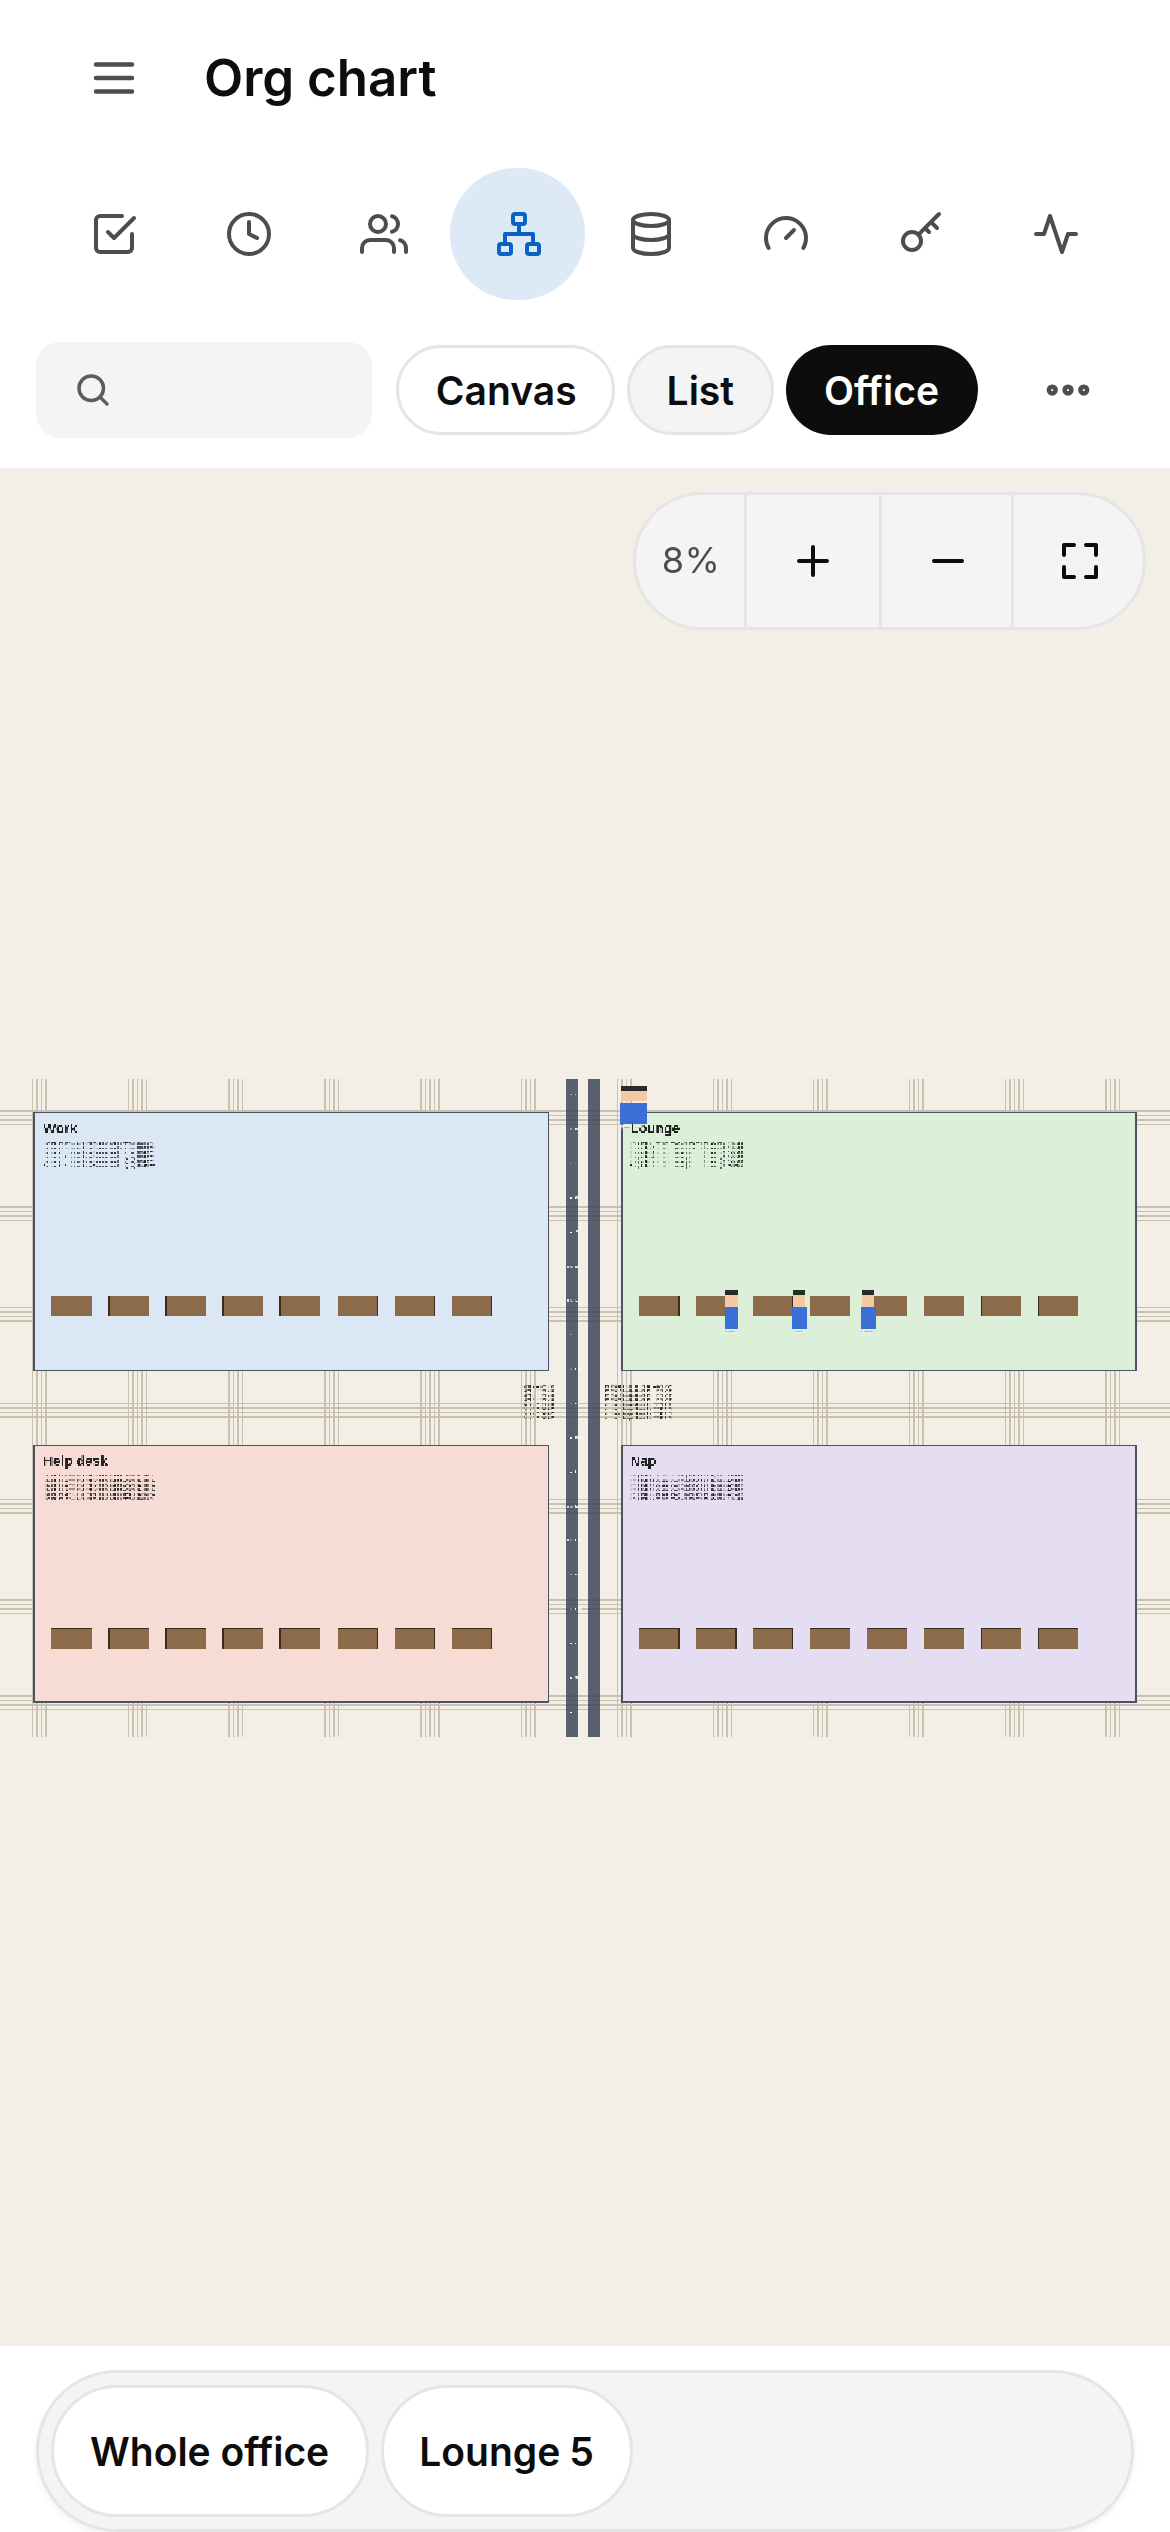
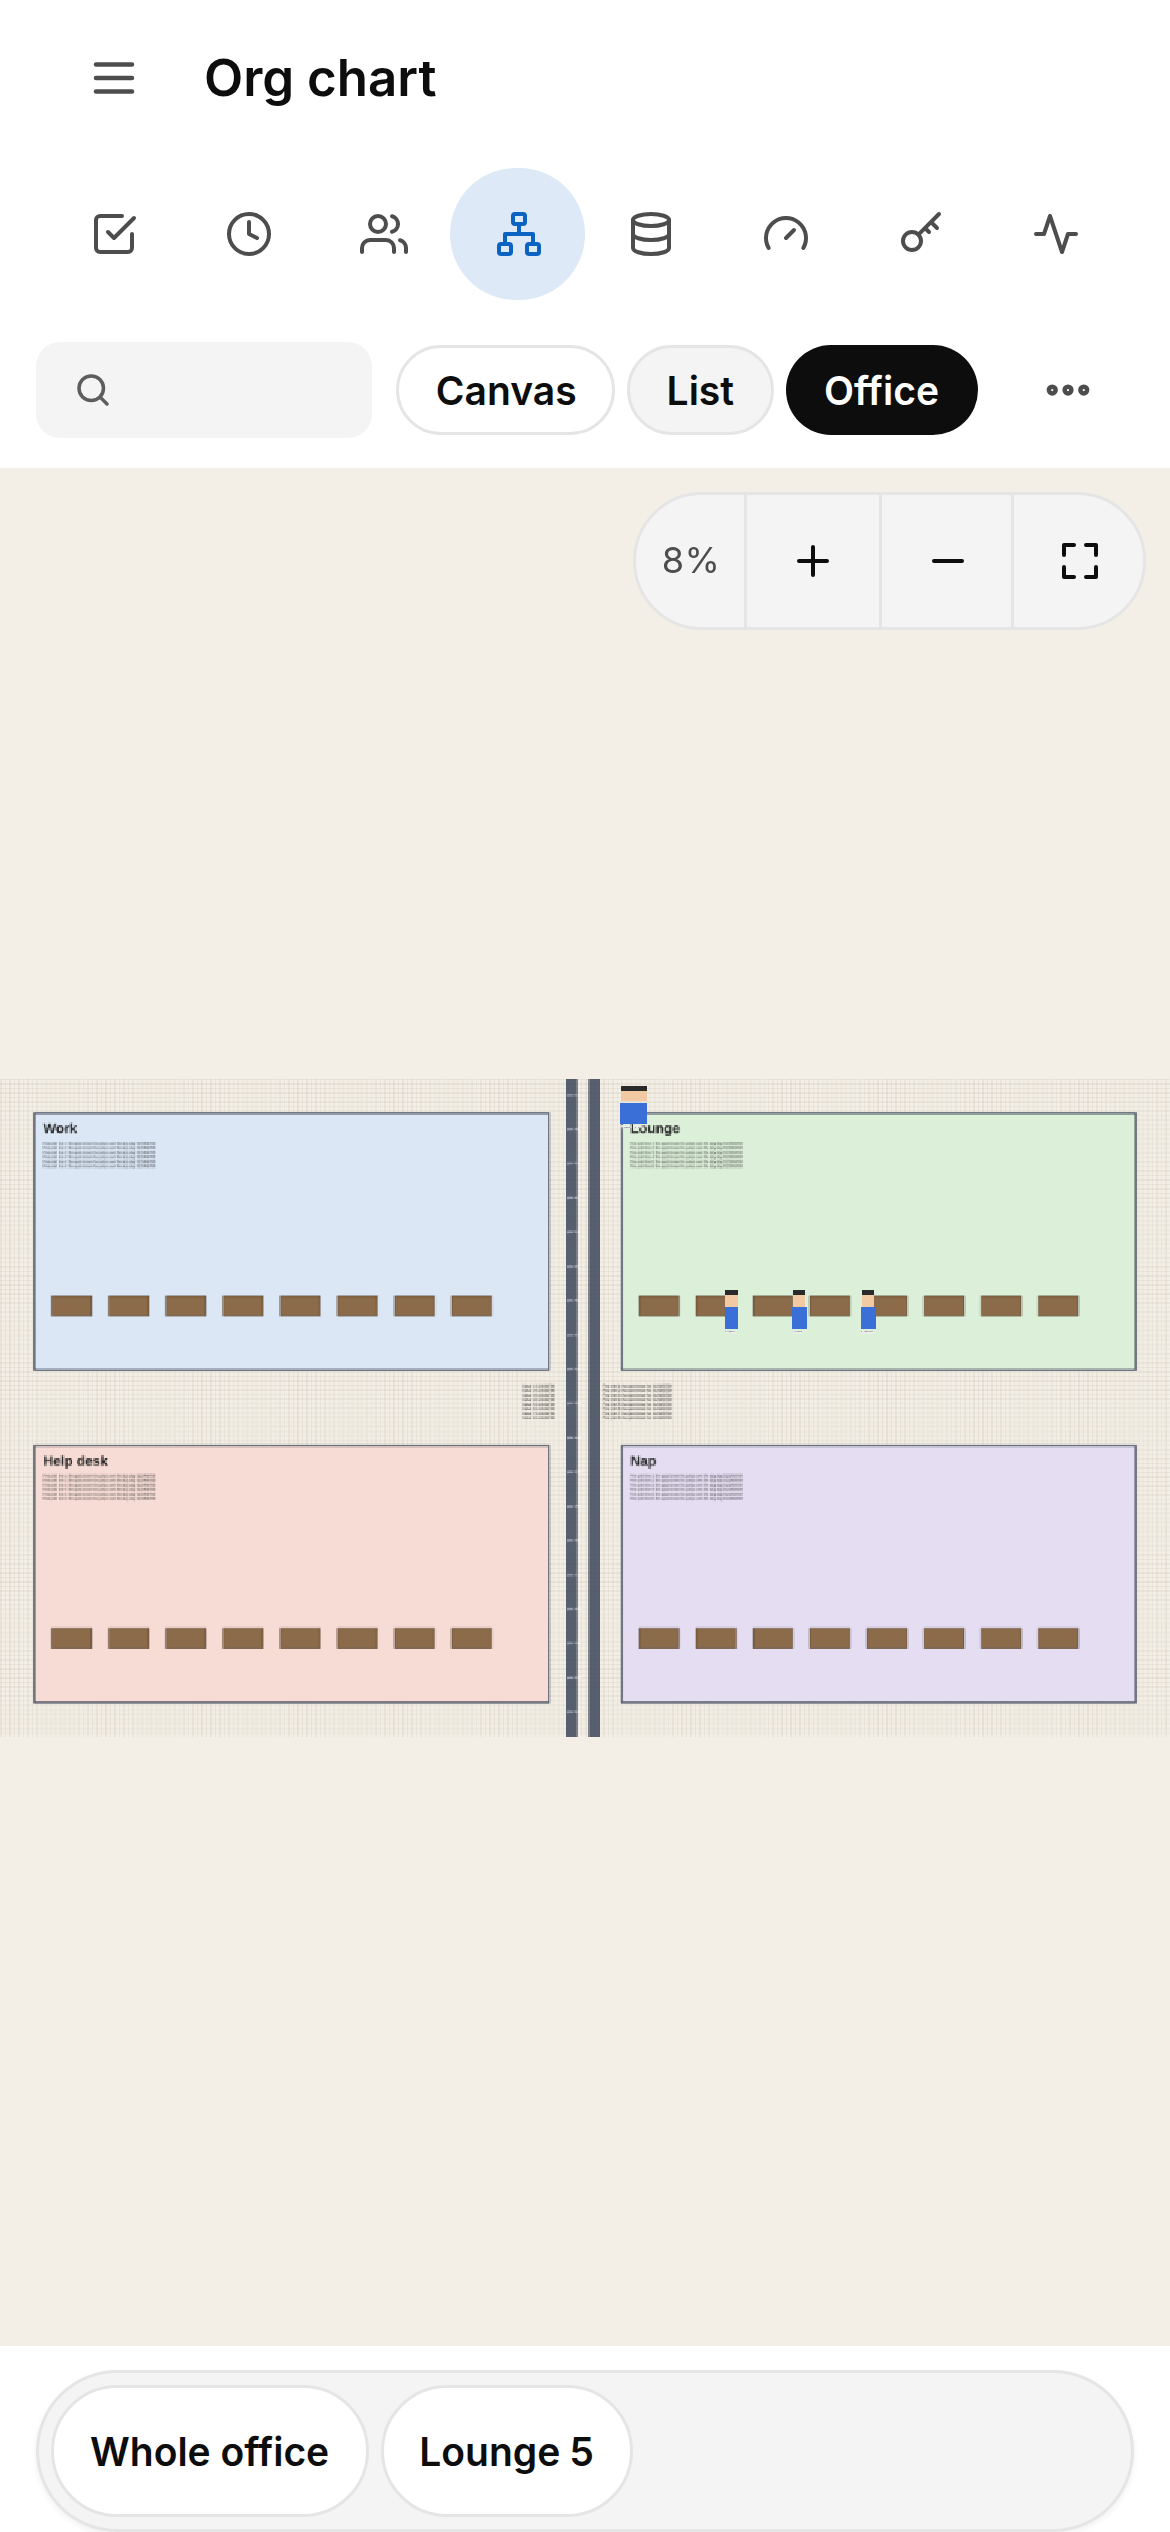
fix(office): a whole-scene picture shrunk below 1x is smoothed (high); at 1x and over, pixel art as before (#4458 review [D])
On a 3x phone at Fit (8%), a big pack's background and foreground were drawn nearest-neighbour onto a backing now
capped at 2x, so fine repeating detail (a 1 px floor grid) came out in uneven clusters. sceneSmoothing reads the
canvas transform: below 1 device px a picture px it turns on high-quality smoothing; at 1x and over it stays off.

Evidence: the phone Fit capture redone before/after, and the main-thread load at Fit (CPU 4x slower) measured for
the base, this PR before [D] and after it.

diff --git a/tests/web-office-canvas.test.ts b/tests/web-office-canvas.test.ts
@@ -88,6 +88,23 @@ describe("a pack's canvas", () => {
     spriteSkin(pack, new Map()).drawBackground(ctx, zonesLayout(pack, []), { mode: "dark", pal: { border: "#000", text: "#fff" }, labels: { areas: {} } });
     expect(rects[0]).toEqual([0, 0, 2560, 1440]);
   });
+  it("#4458 [D]: the background and foreground shrunk below 1 px a picture px are smoothed (high); at 1x and over, not", () => {
+    const pack = (PK.checkSkinPack({ ...BIG(), foreground: "office_bg.png" }) as any).pack;
+    const im = { width: 2048, height: 1152 };                                       // 0.8 px a unit on the 2560 canvas
+    const seen = (scale: number) => {
+      const got: any[] = [], ctx: any = { imageSmoothingEnabled: true, imageSmoothingQuality: "low", save() {}, restore() {},
+        getTransform: () => ({ a: scale, b: 0 }), drawImage() { got.push([this.imageSmoothingEnabled, this.imageSmoothingQuality]); } };
+      const sk = spriteSkin(pack, new Map([["office_bg.png", im]]));
+      sk.drawBackground(ctx, zonesLayout(pack, []), {}); sk.drawForeground(ctx, zonesLayout(pack, []), {});
+      return got;
+    };
+    expect(seen(0.1)).toEqual([[true, "high"], [true, "high"]]);                   // a phone's fit: shrunk
+    expect(seen(0.8)).toEqual([[false, "low"], [false, "low"]]);                   // exactly 1 px a picture px
+    expect(seen(2)).toEqual([[false, "low"], [false, "low"]]);                     // zoomed in: pixel art
+    const none: any = { imageSmoothingEnabled: true, save() {}, restore() {}, drawImage() { this.at = this.imageSmoothingEnabled; } };
+    spriteSkin(pack, new Map([["office_bg.png", im]])).drawBackground(none, zonesLayout(pack, []), {});
+    expect(none.at).toBe(false);                                                    // no transform to read: as before
+  });
   it("people walk the whole big canvas: an idle person in an area past 1280 strolls there, never clamped to 1280×720", () => {
     const pack = (PK.checkSkinPack({ ...BIG(), stateZones: { ...MANIFEST().stateZones, idle: "east", default: "east" },
       waypoints: [...MANIFEST().waypoints, { id: "e1", x: 2150, y: 1180 }, { id: "e2", x: 2300, y: 1000 }],

diff --git a/src/ui/fleet-office-skin.js b/src/ui/fleet-office-skin.js
@@ -666,6 +666,19 @@ export function styleSeats(id) {
 // ── Skin packs ──
 
 /**
+ * A whole-scene picture (`im`, drawn `w` logical units wide): unsmoothed at 1 device px per picture px or more (pixel
+ * art), smoothed (high) when shrunk below that — nearest-neighbour there drops most of its thin lines and keeps others
+ * in uneven clusters (a big pack's fit on a phone). Read from the canvas's transform (none: unsmoothed, as before).
+ */
+export function sceneSmoothing(ctx, im, w) {
+  const t = typeof ctx.getTransform === "function" ? ctx.getTransform() : null;
+  const shrunk = !!t && !!im.width && Math.hypot(t.a, t.b) * w < im.width;
+  ctx.imageSmoothingEnabled = shrunk;
+  if (shrunk) ctx.imageSmoothingQuality = "high";
+  return shrunk;
+}
+
+/**
  * An OfficeSkin from a checked pack (fleet-office-pack.js checkSkinPack) and its loaded pictures (`images`: src → a
  * drawable image). What it lacks, or a picture not loaded, is drawn by the built-in skins.
  */
@@ -756,12 +769,12 @@ export function spriteSkin(pack, images, base = pixelSkin) {
     drawBackground(ctx, L, env) {
       const im = img(pack.background);
       if (!im) { drawBackground(ctx, L, env); return; }
-      ctx.save(); ctx.imageSmoothingEnabled = false; ctx.drawImage(im, 0, 0, canvasOf(pack).w, canvasOf(pack).h); ctx.restore();
+      ctx.save(); sceneSmoothing(ctx, im, canvasOf(pack).w); ctx.drawImage(im, 0, 0, canvasOf(pack).w, canvasOf(pack).h); ctx.restore();
     },
     drawForeground(ctx, L, env) {
       const im = img(pack.foreground);
       if (!im) return;
-      ctx.save(); ctx.imageSmoothingEnabled = false; ctx.drawImage(im, 0, 0, canvasOf(pack).w, canvasOf(pack).h); ctx.restore();
+      ctx.save(); sceneSmoothing(ctx, im, canvasOf(pack).w); ctx.drawImage(im, 0, 0, canvasOf(pack).w, canvasOf(pack).h); ctx.restore();
     },
     /** A pack's vehicle where it is (`at`, fleet-office-vehicles.js vehicleAt): its picture for the way it faces
      * (`sprites` by heading; else `sprite`, mirrored going left), playing while it moves, its first frame at a stop. */

diff --git a/docs/evidence/office-vehicles-perf-4458/README.md b/docs/evidence/office-vehicles-perf-4458/README.md
@@ -3,7 +3,7 @@
 These are captures of the real Office UI, taken in headless Chromium with the smoke fixture. The packs are synthetic, and the agents are fixture agents Alpha to Echo, in one office, HQ. No real names.
 
 - **Before:** `8052c59e`, the `release/2.3.5-alpha` base.
-- **After:** `751d1bee`, this PR's head. The commit that adds this folder adds only these files.
+- **After:** `751d1bee`, except the phone Fit capture of the big pack, which is from the commit that adds review [D] (smoothing below 1×). The commits that add or update this folder change no other files under it.
 - **Script:** `capture.mts`. Copy it to `scripts/manual/smoke/` and run it with `REPO=<checkout> PW_DIR=<checkout> OUT=<dir> LABEL=after MODE=train|plain DEV=desk|phone` (and `PW_DPR=3` for the phone), using the same Playwright image the ui-gate smokes use.
 - Desk: 1366×900 at DPR 1. Phone: 390×844 at DPR 3.
 
@@ -36,6 +36,18 @@ The pack is 5120×2880 (pictures 4096×2304, 0.8 px a unit), with a 1 px grid ev
 |---|---|
 | `before-` / `after-desk-light-en-big-pack-1-fit.png` | Fit (22%) on a desk. The canvas is the same in both. |
 | `before-` / `after-desk-light-en-big-pack-2-zoomed.png` | Zoomed in to 200% on the centre. **Before**, the scene came from a layer capped at 8 Mi px (0.75 px a unit) and scaled up: grid lines at uneven widths, letters with pixel rows missing ("Fine prinl", "Dctail"). **After**, `43075f74` draws the background and foreground straight from their pictures when the layer would be coarser than the screen: the grid is even and the fine print is whole. |
-| `before-` / `after-phone-light-en-big-pack-1-fit.png` | Fit (8%) on a 3× phone. After, the canvas backing is capped at 2× (`8a07abd6`). The rooms, labels and people look the same. The synthetic 1 px grid is finer than a screen pixel at 8%: both versions alias it, but differently. Before it shows as evenly spaced faint lines; after, it shows as bands of lines. Pictures without sub-pixel repeating detail look the same. |
+| `before-` / `after-phone-light-en-big-pack-1-fit.png` | Fit (8%) on a 3× phone. After, the canvas backing is capped at 2× (`8a07abd6`). The rooms, labels and people look the same. The synthetic 1 px grid is finer than a screen pixel at 8%. Before, nearest-neighbour sampling at 3× keeps it as evenly spaced faint lines. After, the background and foreground are smoothed (high quality) when they are drawn below 1 device px a picture px (review [D]), so the grid averages out to an even, faint texture. Without that, the 2× cap left it as uneven clusters of lines. At 1× and above (zoomed in), they stay unsmoothed, as pixel art. |
+
+### Main-thread load on the phone at Fit
+
+Same page and view (390×844, DPR 3, CPU throttled 4× with CDP), 3 × 10 s windows after 3 s settling. The figure is CDP `TaskDuration` divided by wall time (`PERF=1` in `capture.mts`). Two runs each for the PR versions, in opposite order.
+
+| Version | Main thread busy | Script |
+|---|---|---|
+| `8052c59e` base | 23–25% | 157–168 ms/s |
+| `14e365df` this PR before [D] | 13.6–21.4% | 29–52 ms/s |
+| this PR after [D] (smoothing) | 11.6–17.4% | 25–40 ms/s |
+
+The ranges for before and after [D] overlap. Smoothing below 1× adds no load we can measure. rAF ran at 60/s in every window.
 
 The phone was not compared zoomed in: the same eight presses of + land at 67% before and 45% after, so those captures would not show the same view.
